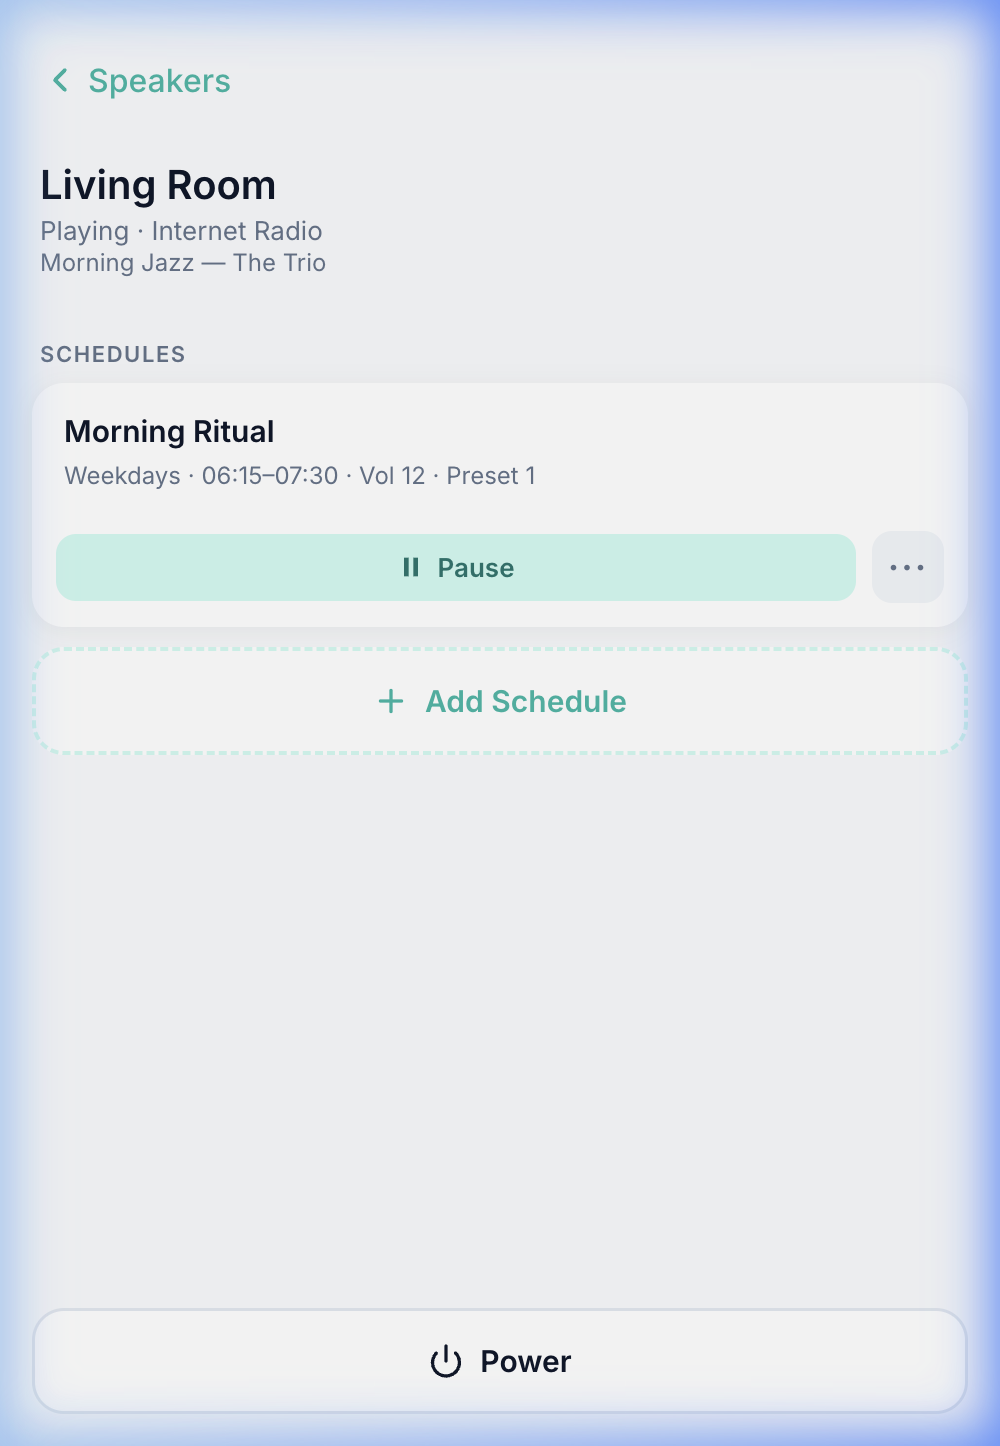
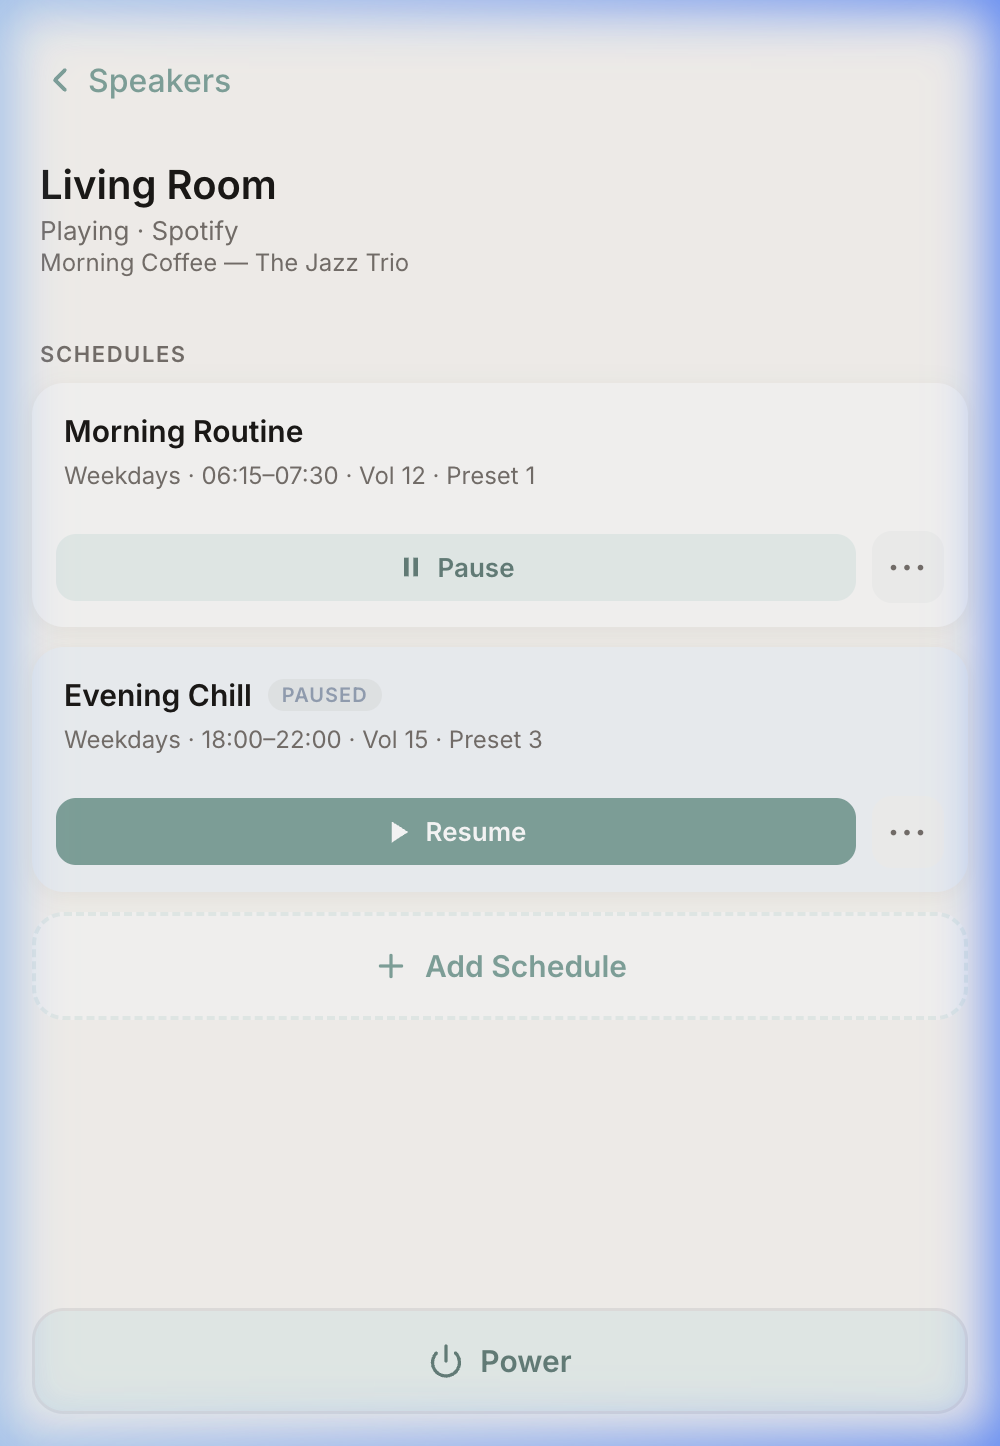
feat: Add 'force' option to auto-on scheduler jobs, refresh UI styling and assets, and remove deprecated build scripts.

diff --git a/app/templates/index.html b/app/templates/index.html
@@ -29,9 +29,9 @@
       --bg:          #FAF7F2;
       --surface:     #FCFBFA;
       --surface-2:   #F5F5F4;
-      --primary:     #57534E;
-      --primary-lt:  #E7E5E4;
-      --primary-dk:  #292524;
+      --primary:     #7AA69E;
+      --primary-lt:  #E8F1EF;
+      --primary-dk:  #5E827B;
       --paused:      #94A3B8;
       --paused-bg:   #F1F5F9;
       --danger:      #EF4444;
@@ -247,11 +247,11 @@
     }
     .btn-power:active { opacity: 0.8; transform: scale(0.98); }
     .btn-power-single {
-      background: var(--surface); color: var(--text);
+      background: var(--primary-lt); color: var(--primary-dk);
       border: 1.5px solid var(--border);
     }
     .btn-turn-off-all {
-      background: transparent; color: var(--danger);
+      background: var(--danger-lt); color: var(--danger);
       border: 1.5px solid var(--danger);
     }
 
@@ -633,7 +633,6 @@
     <div class="sheet-title" id="more-sheet-name"></div>
     <button class="sheet-btn sheet-btn-confirm" id="sheet-btn-trigger">▶ Run Now</button>
     <button class="sheet-btn sheet-btn-danger" id="sheet-btn-delete">🗑 Delete Schedule</button>
-    <button class="sheet-btn sheet-btn-cancel" id="sheet-btn-more-cancel">Cancel</button>
   </div>
 </div>
 

diff --git a/app/scheduler/jobs.py b/app/scheduler/jobs.py
@@ -106,7 +106,7 @@ def config_io_worker():
         except Exception as e:
             print(f"[IO Manager] Error processing mutation: {e}")
 
-def auto_on_job(speaker_name, preset, volume, source=None, fade_in_duration=300):
+def auto_on_job(speaker_name, preset, volume, source=None, fade_in_duration=300, force=False):
     print(f"[Scheduler] Auto-ON triggered for '{speaker_name}'...")
     target_ip = discovery.get_device_ip(speaker_name)
 
@@ -118,14 +118,19 @@ def auto_on_job(speaker_name, preset, volume, source=None, fade_in_duration=300)
     speaker_status = status_data.get("status", "OFFLINE")
     print(f"[Scheduler] '{speaker_name}' current status is '{speaker_status}'")
     
-    if speaker_status != "STANDBY" and speaker_status != "OFFLINE":
+    is_active = speaker_status.upper() not in ["STANDBY", "OFFLINE"]
+    
+    if is_active and not force:
         print(f"[Scheduler] '{speaker_name}' is already active. Ignoring ON event to prevent interruption.")
         return
         
-    print(f"[Scheduler] '{speaker_name}' is {speaker_status}. Turning on...")
-    if control.power_action(target_ip):
-        # Wait a moment for speaker to boot and accept additional commands
-        time.sleep(3)
+    if not is_active:
+        print(f"[Scheduler] '{speaker_name}' is {speaker_status}. Turning on...")
+        if control.power_action(target_ip):
+            # Wait a moment for speaker to boot and accept additional commands
+            time.sleep(3)
+    else:
+        print(f"[Scheduler] '{speaker_name}' is active, but 'force=True' was provided. Proceeding with routine.")
         
         if source == "AUX":
             print(f"[Scheduler] '{speaker_name}' switching to AUX input...")
@@ -137,6 +142,7 @@ def auto_on_job(speaker_name, preset, volume, source=None, fade_in_duration=300)
         time.sleep(1)
         
         print(f"[Scheduler] '{speaker_name}' starting volume fade-in to {volume} over {fade_in_duration}s...")
+        # Ensure we start with a clean state if we are forcing/overriding
         control.set_volume(target_ip, 0)
         
         if fade_in_duration <= 0 or volume <= 0:
@@ -150,7 +156,7 @@ def auto_on_job(speaker_name, preset, volume, source=None, fade_in_duration=300)
             
             if v % 5 == 0 or sleep_interval > 5:
                 status_data = status.get_now_playing(target_ip)
-                if status_data.get("status") == "STANDBY":
+                if status_data.get("status", "").upper() == "STANDBY":
                     print(f"[Scheduler] Fade-in aborted: '{speaker_name}' was manually turned off mid-fade.")
                     return
                     
@@ -170,7 +176,7 @@ def auto_off_job(speaker_name, fade_out_duration=60):
     speaker_status = status_data.get("status", "OFFLINE")
     print(f"[Scheduler] '{speaker_name}' current status is '{speaker_status}'")
     
-    if speaker_status != "STANDBY" and speaker_status != "OFFLINE":
+    if speaker_status.upper() not in ["STANDBY", "OFFLINE"]:
         print(f"[Scheduler] Speaker is active. Starting volume fade-out over {fade_out_duration}s.")
         
         current_volume = status.get_volume(target_ip)
@@ -181,7 +187,7 @@ def auto_off_job(speaker_name, fade_out_duration=60):
                 
                 if v % 5 == 0 or sleep_interval > 5:
                     status_data = status.get_now_playing(target_ip)
-                    if status_data.get("status") == "STANDBY":
+                    if status_data.get("status", "").upper() == "STANDBY":
                         print(f"[Scheduler] Fade-out aborted: '{speaker_name}' was already turned off.")
                         return
                         
@@ -190,7 +196,7 @@ def auto_off_job(speaker_name, fade_out_duration=60):
         print(f"[Scheduler] Sending power off signal to '{speaker_name}'.")
         control.power_action(target_ip)
     else:
-        print(f"[Scheduler] Speaker is already in STANDBY mode. No action needed.")
+        print(f"[Scheduler] Speaker is already in STANDBY/OFFLINE mode. No action needed.")
 
 
 def run_scheduler_loop():

diff --git a/app/api/routes.py b/app/api/routes.py
@@ -240,7 +240,8 @@ def api_trigger_schedule(speaker_name, schedule_name):
             target.get("preset", 1),
             target.get("volume", 20),
             target.get("source"),
-            target.get("fade_in_duration", 300)
+            target.get("fade_in_duration", 300),
+            True  # force=True
         ),
         daemon=True
     ).start()

diff --git a/README.md b/README.md
@@ -24,17 +24,24 @@ When Bose released their API documentation, I saw a chance to give the SoundTouc
 
 <table>
   <tr>
-    <td width="33%" align="center">
+    <td width="50%" align="center">
       <img src="docs/assets/hub_view.png" alt="Wisp Hub View"><br>
       <b>The Hub</b><br>
       <i>Real-time status for your speakers.</i>
     </td>
-    <td width="33%" align="center">
+    <td width="50%" align="center">
       <img src="docs/assets/detail_view.png" alt="Wisp Detail View"><br>
       <b>Detail View</b><br>
       <i>Manage schedules and precise routines.</i>
     </td>
-    <td width="33%" align="center">
+  </tr>
+  <tr>
+    <td width="50%" align="center">
+      <img src="docs/assets/more_menu.png" alt="Wisp More Menu"><br>
+      <b>The Menu</b><br>
+      <i>Quick access to manual triggers.</i>
+    </td>
+    <td width="50%" align="center">
       <img src="docs/assets/editor.png" alt="Wisp Editor View"><br>
       <b>The Editor</b><br>
       <i>Create gentle fade-in transitions.</i>
